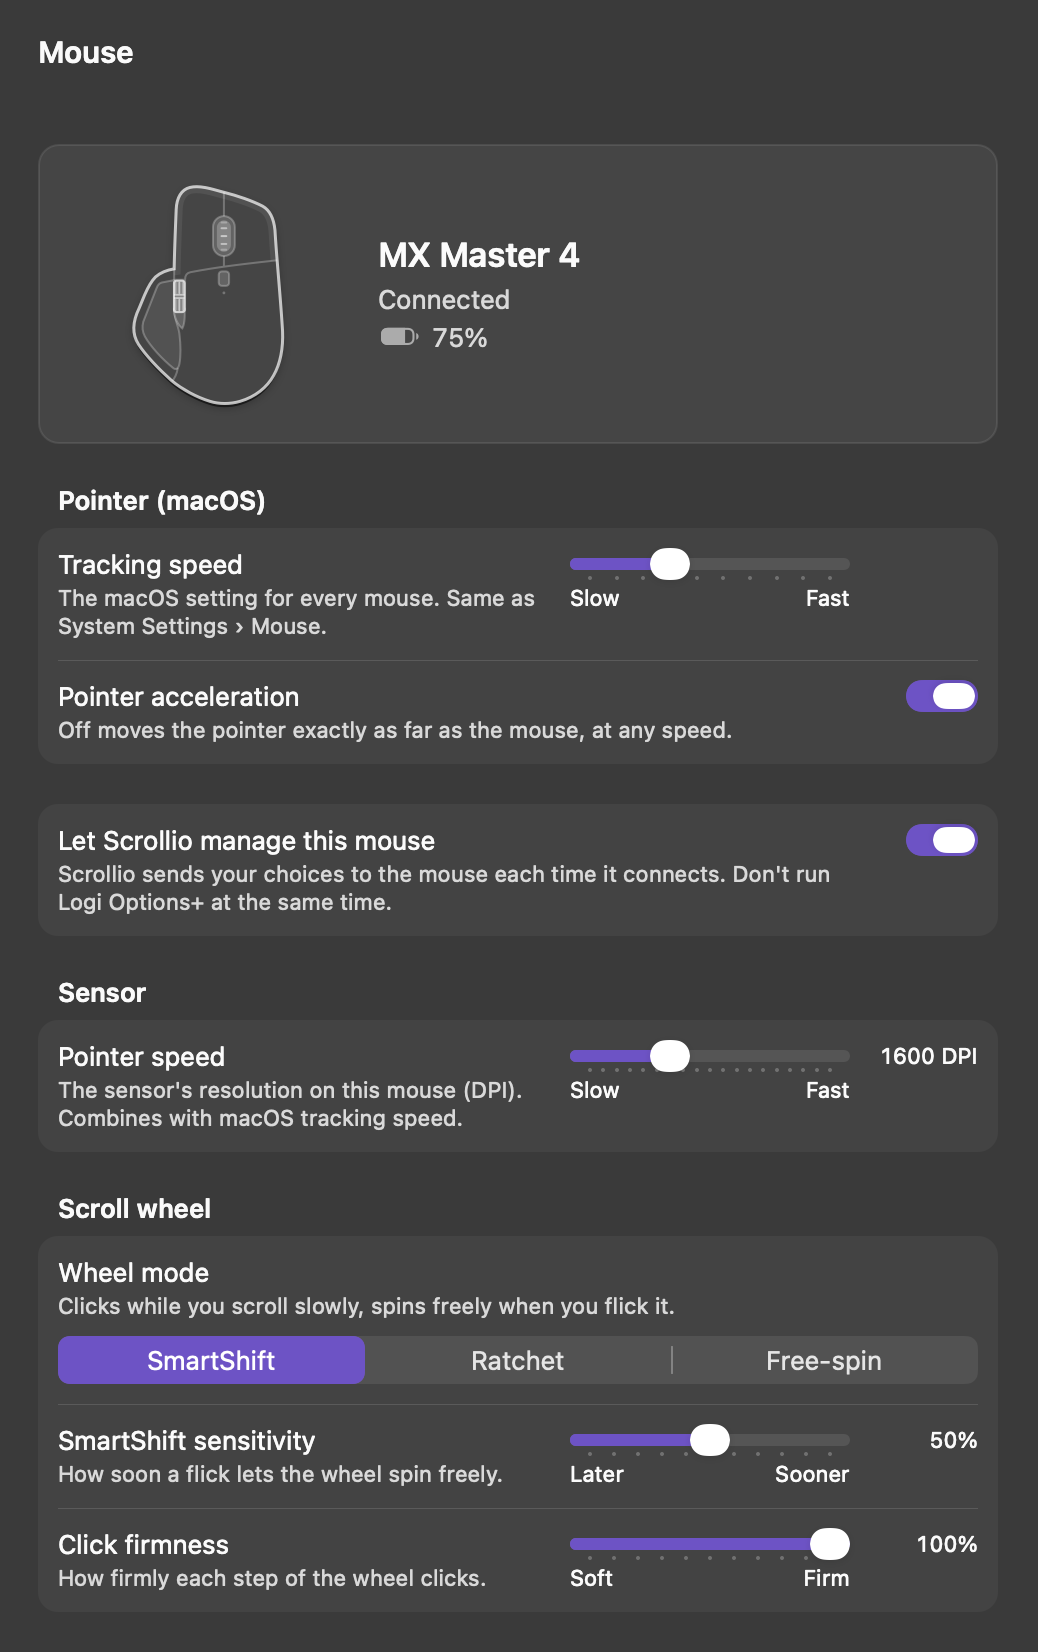
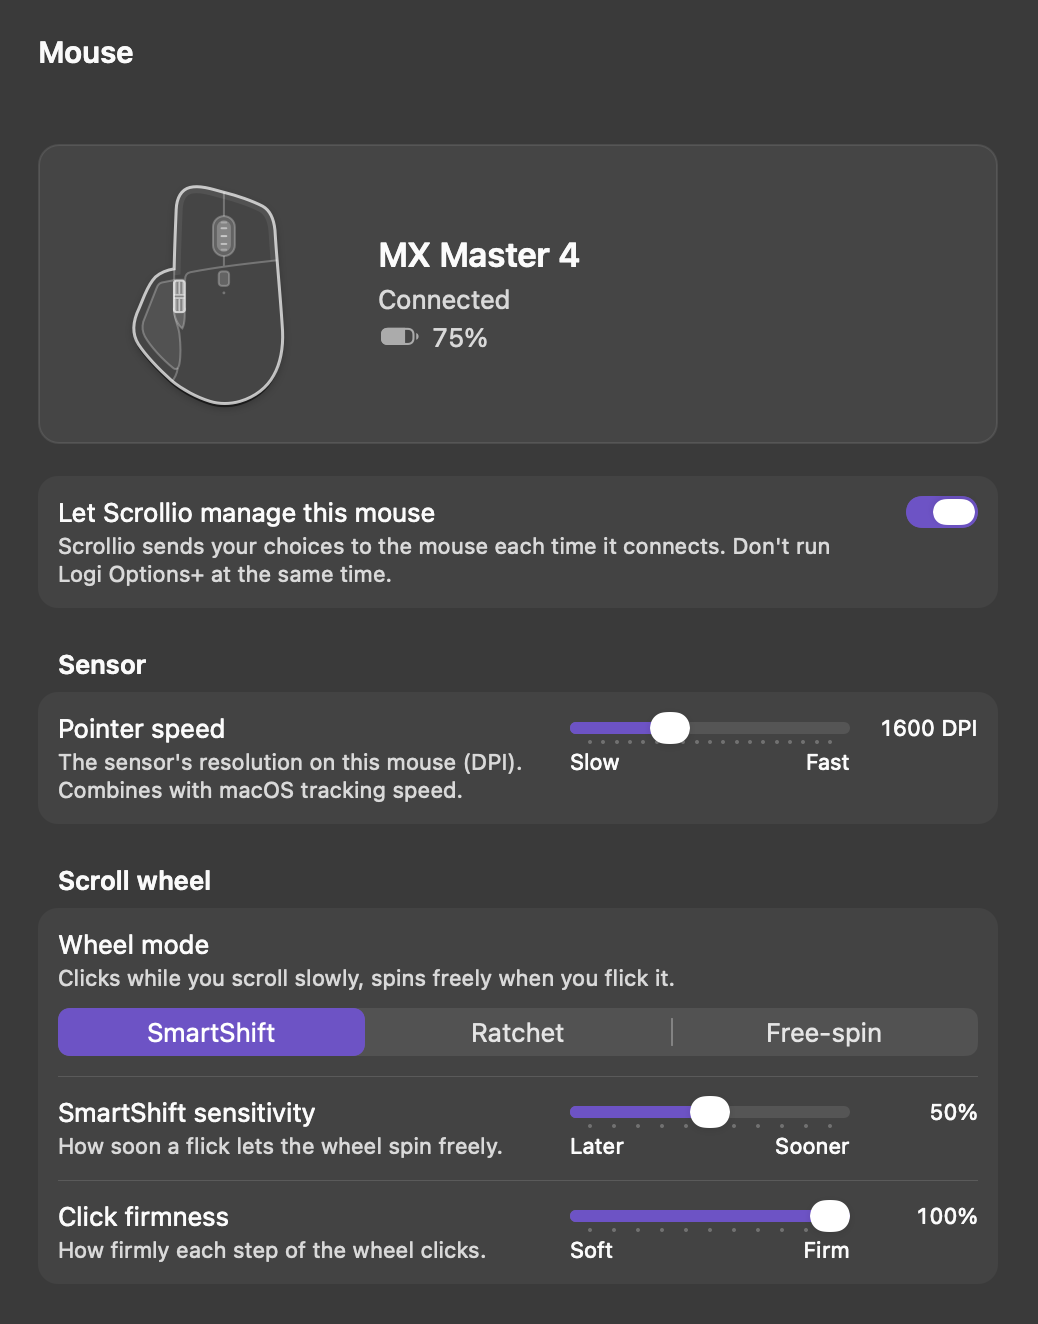
README pictures: redraw them as the app is now, add the Shortcut Ring and Safari's own ring
The pictures still showed 1.0.5's panes: Buttons without "Default (…)", Gestures with a
"Change" button where the pull-down is now, Mouse with the macOS pointer settings first.
They are drawn again by the render test, with the thumb panel left free in the Buttons
sample so its row shows what it is good for. The Welcome Guide's picture comes out the
same as before and stays.

Two new ones: the Shortcut Ring pane with an MX Master 4 whose thumb panel opens the
default ring, cut below the drawing and the first box; and Safari's page on its own
Shortcut Ring right after "Use settings from Shortcut Ring" is turned off, its suggested
shortcuts (US layout) round its icon. TitledCut can count the ring's drawing as a box, so
that picture ends below the drawing.

diff --git a/ScrollioTests/PreferencesWindowRenderTests.swift b/ScrollioTests/PreferencesWindowRenderTests.swift
@@ -2380,9 +2380,12 @@ final class PreferencesWindowRenderTests: XCTestCase {
 
     /// The pictures of the README (`readme-<pane>-<appearance>.png`, copied by hand to
     /// `assets/readme/`): Scrolling at its defaults; Buttons with an MX Master 4, a few
-    /// buttons and keys set up and the gesture button's row selected; Gestures with an MX
-    /// Master 4; the Mouse pane of an MX Master 4 that Scrollio manages, down to its scroll
-    /// wheel. Each is the window's column under the pane's title, cut below a box of the pane.
+    /// buttons and keys set up, the thumb panel free and the gesture button's row selected;
+    /// Gestures with an MX Master 4; the Mouse pane of an MX Master 4 that Scrollio manages,
+    /// down to its scroll wheel; Shortcut Ring with an MX Master 4 whose thumb panel opens
+    /// the default ring (`readme-ring`); Safari's own Shortcut Ring on its page, its
+    /// suggested shortcuts round its icon (`readme-app`, cut below the drawing). Each is the
+    /// window's column under the pane's title, cut below a box of the pane.
     /// Numbers follow the region of the test run: for "6.3×" rather than "6,3×", give the
     /// test plan's configuration the options `"language": "en", "region": "US"` while you
     /// render (xcodebuild's `-testRegion` does not reach a scheme with test plans), then:
@@ -2398,10 +2401,10 @@ final class PreferencesWindowRenderTests: XCTestCase {
 
         let mxMaster4 = ButtonsDeviceSource(captureStatus: { _ in .normal }, deviceName: { "MX Master 4" }, isBusy: { false }, refresh: {}, warnBluetoothButton: { _ in })
         let controlOption = UInt(CGEventFlags.maskControl.rawValue | CGEventFlags.maskAlternate.rawValue)
+        // (The thumb panel is left free: its row says what it is good for.)
         Options.shared.buttons.binding = [
             binding(1000, SystemShortcut.mouseGestureNavigation.identifier),
             binding(3, SystemShortcut.missionControl.identifier),
-            binding(2000 + 0x01A0, SystemShortcut.copy.identifier),
             ButtonBinding(
                 triggerEvent: RecordedEvent(type: .keyboard, code: 40, modifiers: controlOption, deviceFilter: nil),
                 systemShortcutName: SystemShortcut.screenshotSelection.identifier
@@ -2440,6 +2443,60 @@ final class PreferencesWindowRenderTests: XCTestCase {
         Options.shared.logiWheel = LogiWheelSettings(managedByScrollio: true)
         let master4 = MouseDeviceFixtures.mxMaster4(dpi: 1600, hapticsOn: true, strength: 60, pressForce: 5167)
         try renderMouse([master4], name: "readme-mouse", titled: TitledCut(boxes: 3))
+
+        let stored = Options.shared.application.applications
+        let savedRing = Options.shared.ring
+        let savedIdentifier = ShortcutRingSuggestions.bundleIdentifierOfApplication
+        let savedLayout = ShortcutRingSuggestions.layout
+        addTeardownBlock {
+            Options.shared.application.applications = stored
+            Options.shared.ring = savedRing
+            ShortcutRingSuggestions.bundleIdentifierOfApplication = savedIdentifier
+            ShortcutRingSuggestions.layout = savedLayout
+            ShortcutRingController.forgetPreparedFaces()
+            ButtonUtils.shared.invalidateCache()
+        }
+        Options.shared.application.applications = EnhanceArray<Application>(matchKey: "path")
+        Options.shared.ring = .default
+        // The thumb panel opens the ring, a binding of Buttons as the user makes it.
+        let opensRing = [binding(LogiCenter.shared.scrollioCode(for: .thumbPanel), SystemShortcut.shortcutRing.identifier)]
+        Options.shared.buttons.binding = opensRing
+        ButtonUtils.shared.invalidateCache()
+        try renderPane(RingPreferencesViewController.tabIdentifier, name: "readme-ring", titled: TitledCut(boxes: 1), replacement: {
+            let ring = RingPreferencesViewController()
+            ring.bindingSummary = { ShortcutRingBindingSummary(bindings: opensRing) }
+            return ring
+        }, afterLoad: { controller in
+            guard let ring = controller as? RingPreferencesViewController else { return }
+            ring.triggerChooser?.deviceSource = mxMaster4
+            Self.stillTriggerCard(of: ring, mouse: .mxMaster4)
+            ring.reload()
+        })
+
+        // Safari's page, right after "Use settings from Shortcut Ring" was turned off: its own
+        // ring holds Safari's suggested shortcuts (on the US layout) round its icon. Safari
+        // gets its bundle identifier through the seam.
+        let safari = Application(path: "/Applications/Safari.app")
+        safari.displayName = "Safari"
+        ShortcutRingSuggestions.bundleIdentifierOfApplication = { $0 == safari.path ? "com.apple.Safari" : nil }
+        ShortcutRingSuggestions.layout = { .us }
+        Options.shared.application.applications = EnhanceArray<Application>(withArray: [safari], matchKey: "path")
+        let defaults = uiDefaults(advanced: false)
+        try renderPane(PANEL_IDENTIFIER.application, name: "readme-app",
+                       titled: TitledCut(boxes: 3, margin: 12, alsoBoxes: [ShortcutRingPreviewView.self]), prepare: { preferences in
+            (preferences.controller(for: PANEL_IDENTIFIER.application) as? PreferencesApplicationViewController)?
+                .uiStateDefaults = defaults
+        }, afterLoad: { controller in
+            let pane = controller as? PreferencesApplicationViewController
+            pane?.openApplication(withID: safari.path, part: .ring)
+            guard let part = pane?.detailController?.ringPart else { return }
+            // Each appearance starts from the general ring, as the user finds it.
+            safari.ring = nil
+            part.syncViewWithOptions()
+            part.generalRingRow.toggle.state = .off
+            part.generalRingClick(part.generalRingRow.toggle)
+            part.syncViewWithOptions()
+        })
     }
 
     // MARK: - Kit
@@ -3218,19 +3275,22 @@ private final class RenderWindow: NSWindow {
 
 /// How a picture with the pane's title is cut from the window's frame: the pane's column
 /// from the top of the window (the title bar's strip, with the title) down to `margin`
-/// below the `boxes`-th box of the pane counted from the top (a rounded box or a list), or
-/// to the bottom of the column when nil. The line at the column's leading edge (the
-/// sidebar's border) is left out.
+/// below the `boxes`-th box of the pane counted from the top (a rounded box or a list, or
+/// a view of one of the `alsoBoxes` classes), or to the bottom of the column when nil.
+/// The line at the column's leading edge (the sidebar's border) is left out.
 private struct TitledCut {
     var boxes: Int?
     var margin: CGFloat = 20
+    /// Views that count as boxes too (the drawing of an app's own ring stands on its page
+    /// by itself).
+    var alsoBoxes: [AnyClass] = []
 
     func rect(column scroll: NSScrollView, pane: NSView, in frameView: NSView) -> NSRect {
         let column = scroll.convert(scroll.bounds, to: frameView)
         let flipped = frameView.isFlipped
         var bottom = flipped ? column.maxY : column.minY
         if let boxes, boxes > 0 {
-            let frames = Self.boxes(in: pane).map { $0.convert($0.bounds, to: frameView) }
+            let frames = Self.boxes(in: pane, also: alsoBoxes).map { $0.convert($0.bounds, to: frameView) }
             let fromTop = flipped ? frames.sorted { $0.minY < $1.minY } : frames.sorted { $0.maxY > $1.maxY }
             if fromTop.count >= boxes {
                 let box = fromTop[boxes - 1]
@@ -3243,11 +3303,11 @@ private struct TitledCut {
     }
 
     /// The pane's boxes, the outermost only.
-    private static func boxes(in view: NSView) -> [NSView] {
-        if view is PreferencesGroupBox || view is PreferencesListBox {
+    private static func boxes(in view: NSView, also: [AnyClass]) -> [NSView] {
+        if view is PreferencesGroupBox || view is PreferencesListBox || also.contains(where: { view.isKind(of: $0) }) {
             return [view]
         }
-        return view.subviews.flatMap { boxes(in: $0) }
+        return view.subviews.flatMap { boxes(in: $0, also: also) }
     }
 }
 
